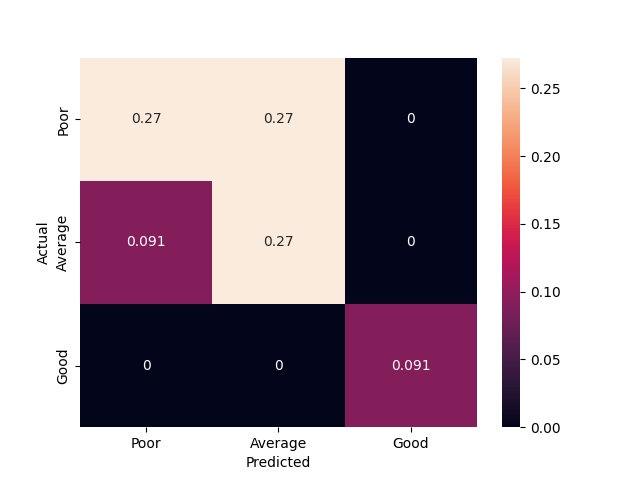
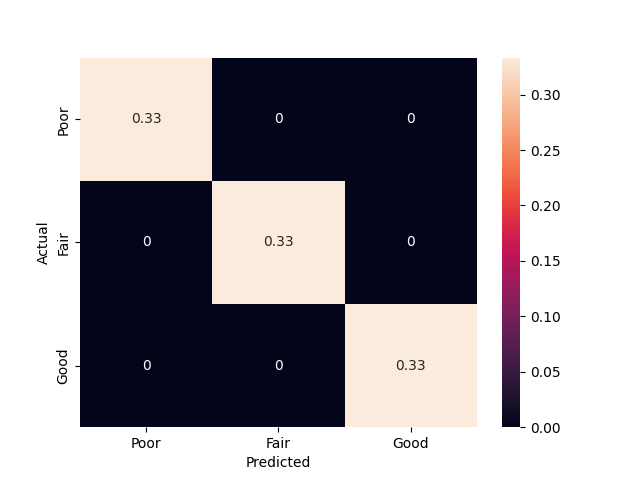
small changes

diff --git a/Wine/Test/test5.py b/Wine/Test/test5.py
@@ -21,21 +21,6 @@ from sklearn.metrics import confusion_matrix
 
 import numpy as np
 
-def generate_wine(stats, N):
-    """
-    Returns randomly generated wine of a particular quality based on its statistics 
-    """
-    import pandas as pd
-    import random
-
-    df_dict = {}
-
-    for row in stats:
-        df_dict[row['column']] = np.clip(np.random.normal(row['mean'], row['stdDev'], N), a_min=0.0, a_max=None)
-        #df_dict[row['column']] = np.random.uniform(row['minimum'], row['maximum'], N)
-
-    df = pd.DataFrame.from_dict(df_dict)
-    return df
 
 
 # fetch dataset 
@@ -49,6 +34,7 @@ for i in wine_quality_red.columns[wine_quality_red.isnull().any(axis=0)]:     #-
 wine_quality = wine_quality_white
 df_features = wine_quality
 
+df_features = wine_quality
 
 drop_col = ["fixed_acidity",
            "citric_acid",
@@ -74,10 +60,10 @@ X, y = df_features.iloc[:,:-1], df_features.iloc[:,-1:]
 
 v = y.values.squeeze()
 v1 = v
-v1 = np.select([v<6,v==6, v>6],[0,1,2])[:,None]
-#v1 = np.select([v<6, v>6],[0,1])[:,None]
-#v1 = np.select([v<=5,(v>5)&(v<=7), v>7],[0,1,2])[:,None]
 #v1 = np.select([v<6,v==6, v>6],[0,1,2])[:,None]
+v1 = np.select([v<6, v>6],[0,1])[:,None]
+#v1 = np.select([v<5,(v>=5)&(v<=6), v>6],[0,1,2])[:,None]
+#v1 = np.select([v<5,v==5, v==6,v==7,v>7],[0,1,2,3,4])[:,None]
 y = pd.DataFrame(v1, columns=["quality"])
 #X = X[['alcohol', 'sulphates']]
 
@@ -89,7 +75,7 @@ scaler = preprocessing.StandardScaler()
 #df_features = wine_quality.data.features
 
 
-X_train, X_test, y_train, y_test = train_test_split(X, y, test_size=0.1, stratify=y)
+X_train, X_test, y_train, y_test = train_test_split(X, y, test_size=0.2, stratify=y)
 
 #df4 = X_train.copy()
 #df4["quality"] = y_train.values
@@ -110,7 +96,7 @@ y_train = df4.iloc[:,-1:]  """
 us = RandomUnderSampler(sampling_strategy={0:1105,1:1100,2:738})
 sm = RandomOverSampler()
 #sm = SMOTE(sampling_strategy={0:2804,1:2804})
-sm = SMOTE(sampling_strategy={0:1205,1:1599,2:1500})
+#sm = SMOTE()
 print(np.unique(y_train.values, return_counts=True))
 #X_train, y_train = us.fit_resample(X_train, y_train)
 X_train, y_train = sm.fit_resample(X_train, y_train)
@@ -174,7 +160,7 @@ for i in range(3):
     stat_fg = fs.get_feature_group(name=name, version=1)
     stats = stat_fg.get_statistics().content['columns']
 
-    wines.append(generate_wine(stats, 50000))
+    wines.append(generate_wine(stats, 1000))
 
  
 generated = pd.concat(wines, ignore_index=True)

diff --git a/Wine/batch_inference_pipeline.py b/Wine/batch_inference_pipeline.py
@@ -21,6 +21,12 @@ def g():
     import seaborn as sns
     import requests
 
+    quality_name = {
+        0:"Bad",
+        1:"Fair",
+        2:"Good"
+    }
+
     project = hopsworks.login()
     fs = project.get_feature_store()
 
@@ -70,8 +76,8 @@ def g():
         
     now = datetime.now().strftime("%m/%d/%Y, %H:%M:%S")
     data = {
-        'prediction': [wine_quality],
-        'label': [label],
+        'prediction': quality_name[wine_quality],
+        'label': quality_name[label],
         'datetime': [now],
        }
     monitor_df = pd.DataFrame(data)
@@ -95,8 +101,8 @@ def g():
         results = confusion_matrix(labels, predictions, normalize='all')
 
         df_cm = pd.DataFrame(results, 
-                                ['Poor', 'Average', 'Good'],
-                                ['Poor', 'Average', 'Good'])
+                                ['Poor', 'Fair', 'Good'],
+                                ['Poor', 'Fair', 'Good'])
 
         cm = sns.heatmap(df_cm, annot=True)
         cm.set(xlabel='Predicted', ylabel='Actual')

diff --git a/Wine/clear_features.py b/Wine/clear_features.py
@@ -18,16 +18,30 @@ try:
 except:
     print("Featureview deletion unsuccessful")
 
-wine_fg = fs.get_feature_group(
-    name="wine",
-    version=1)
-wine_fg.delete()
+try:
+    wine_fg = fs.get_feature_group(
+        name="wine_predictions",
+        version=1)
+    wine_fg.delete()
+except:
+    pass
 
-for key in [0, 1, 2]:
-    fg = fs.get_feature_group(
-    name="wine_subset_" + str(int(key)),
-    version=1)
-    fg.delete()
+try:
+    wine_fg = fs.get_feature_group(
+        name="wine",
+        version=1)
+    wine_fg.delete()
+except:
+    pass
+
+try:
+    for key in [0, 1, 2]:
+        fg = fs.get_feature_group(
+        name="wine_subset_" + str(int(key)),
+        version=1)
+        fg.delete()
+except:
+    pass
 
 
 

diff --git a/Wine/Test/fp.py b/Wine/Test/fp.py
@@ -48,9 +48,16 @@ v = y.values.squeeze()
 v1 = np.select([v<6,v==6, v>6],[0,1,2])[:,None]
 y = pd.DataFrame(v1, columns=["quality"])
 
-X_val = X.values
-y_val = y.values
-df_data = np.concatenate((X_val, y_val), axis = 1)
+X_train = X.values
+y_train = y.values
+
+sm = SMOTE()
+
+print(np.unique(y_train, return_counts=True))
+X_train, y_train = sm.fit_resample(X_train, y_train)
+print(np.unique(y_train, return_counts=True))
+
+df_data = np.concatenate((X_train, y_train[:,None]), axis = 1)
 
 df = pd.DataFrame(df_data, columns=columns)
 

diff --git a/Wine/daily_feature_pipeline.py b/Wine/daily_feature_pipeline.py
@@ -1,7 +1,7 @@
 import os
 import modal
 
-LOCAL=False
+LOCAL=True
 
 if LOCAL == False:
    stub = modal.Stub(name = "wine_daily")
